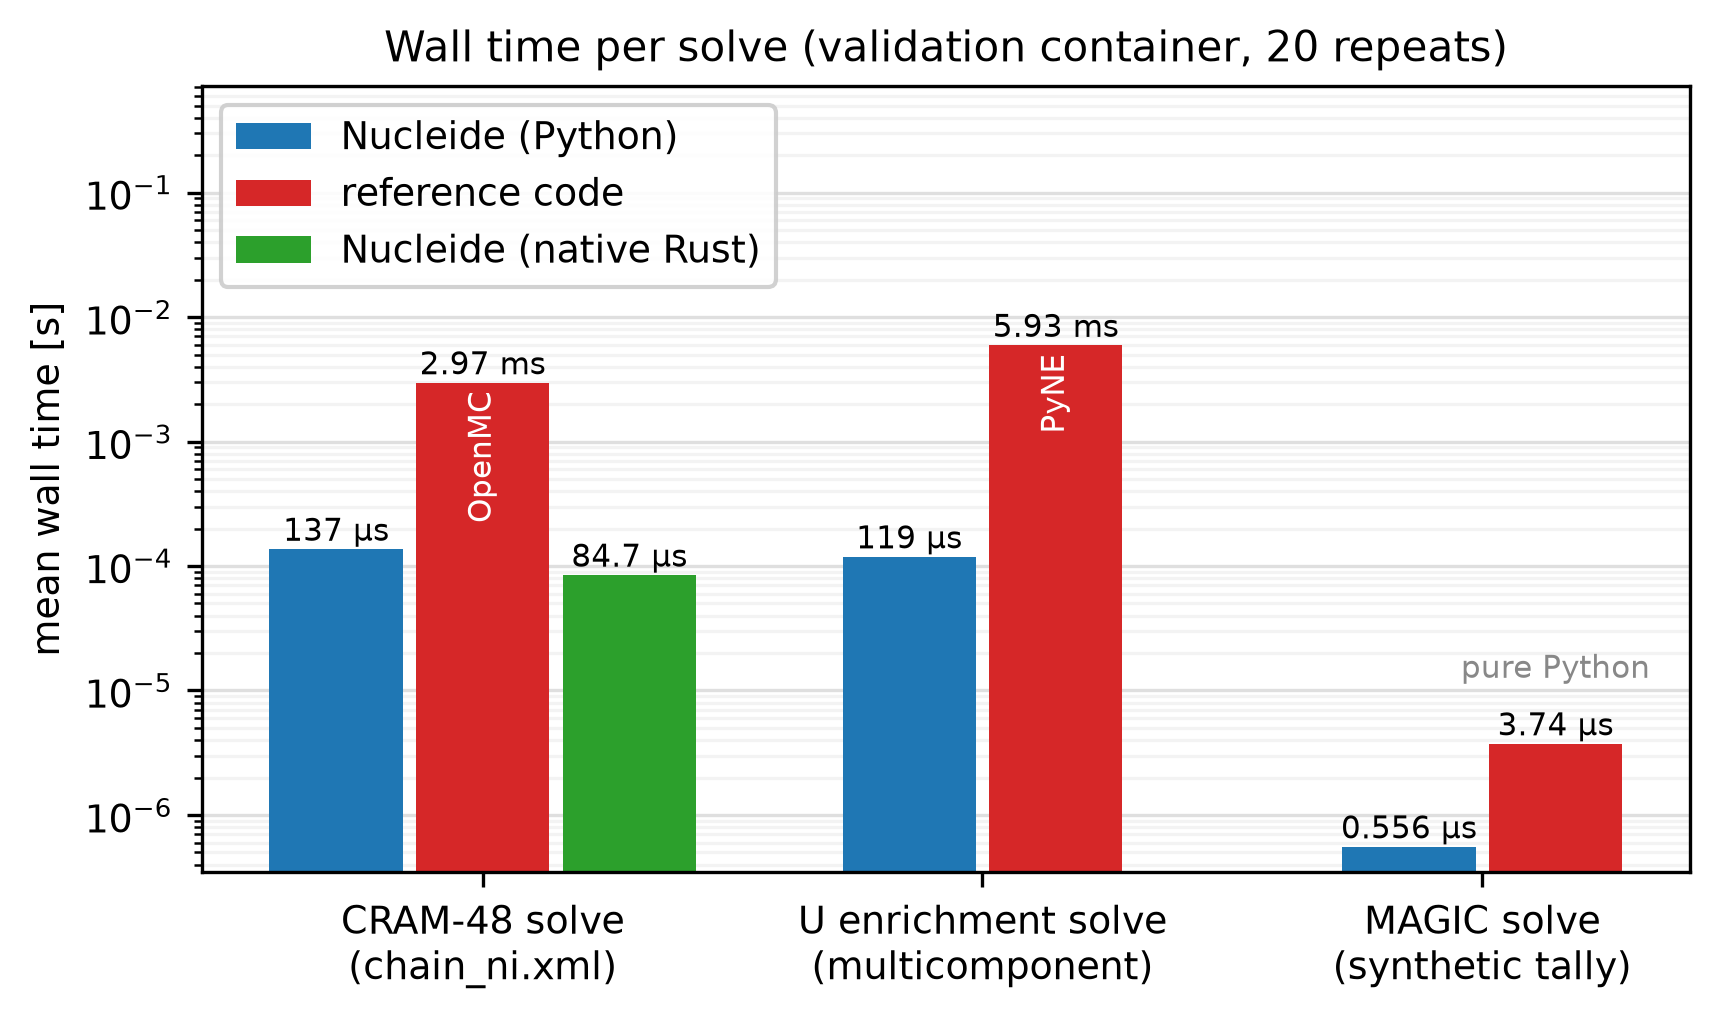
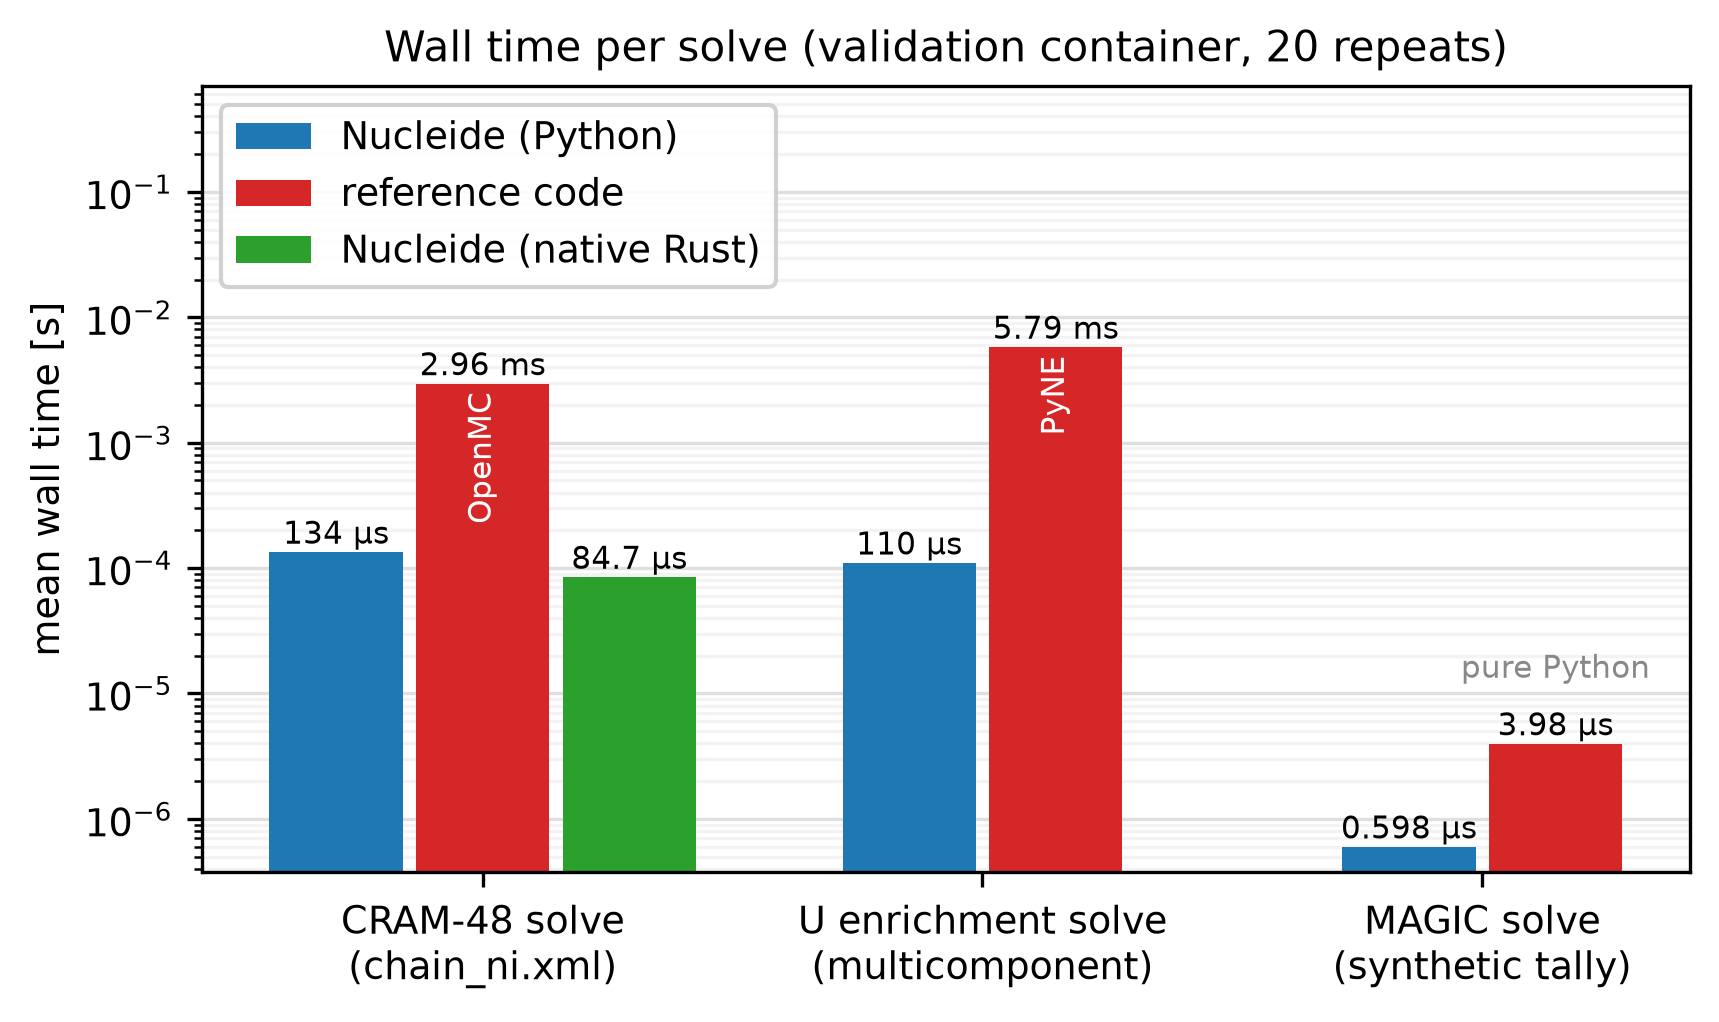
Fix Serpent matrix shape in `read_serpent`
Matrices now map directly to 2-D lists of row lists instead of being
wrapped in a spurious one-element outer list. A matrix containing
non-numeric values raises `ValueError` rather than silently reading as
an empty list.

Update the Serpent tutorial, parser tests, and cross-validation script
to
the faithful shapes, and skip xsdir comparisons cleanly when the PyNE
oracle is unavailable. Refresh timing figures and paper numbers.

diff --git a/validation/parsers_vs_refs.py b/validation/parsers_vs_refs.py
@@ -106,7 +106,7 @@ def compare_serpent_det(path: Path, st_reader) -> list[list[str]]:
         base = f"DET{det_name}"
         if base not in nuc:
             continue
-        bins = np.asarray(nuc[base], dtype=float).reshape(-1, 13)
+        bins = np.asarray(nuc[base], dtype=float)
         d, n = arr_max_rel_diff(bins[:, 11], st_det.tallies)
         rows.append([f"{base} tallies", str(n), fmt(d)])
         d, n = arr_max_rel_diff(bins[:, 12], st_det.errors)
@@ -172,9 +172,12 @@ def serpent_section(report: Report) -> None:
         report.prose(note)
 
 
-def compare_xsdir() -> list[list[str]]:
+def compare_xsdir() -> tuple[list[list[str]], list[str]]:
     """Compare xsdir table entries against pyne.mcnp.Xsdir."""
-    from pyne import mcnp
+    try:
+        from pyne import mcnp
+    except ImportError as exc:
+        return [], [_note(f"SKIPPED xsdir: PyNE oracle unavailable ({exc})")]
 
     path = MCNP_DIR / "xsdir" / "dummy_xsdir"
     nuc = nucleide.mcnp.read_xsdir(str(path))
@@ -199,12 +202,15 @@ def compare_xsdir() -> list[list[str]]:
         if not (str_ok and int_ok):
             _track(1.0)
         rows.append([f"{rt.name} (awr, temperature, name/dir/ints)", "2 + 5", status])
-    return rows
+    return rows, []
 
 
 def compare_surfsrc() -> tuple[list[list[str]], list[str]]:
     """Compare SSW surface-source files against pyne.mcnp.SurfSrc."""
-    from pyne import mcnp
+    try:
+        from pyne import mcnp
+    except ImportError as exc:
+        return [], [_note(f"SKIPPED ssw: PyNE oracle unavailable ({exc})")]
 
     rows: list[list[str]] = []
     skips: list[str] = []
@@ -251,7 +257,10 @@ def compare_ptrac() -> tuple[list[list[str]], list[str]]:
     helper, so only the header scalars it exposes (problem title, per-record
     variable counts) are compared.
     """
-    from pyne.mcnp import PtracReader
+    try:
+        from pyne.mcnp import PtracReader
+    except ImportError as exc:
+        return [], [_note(f"SKIPPED ptrac: PyNE oracle unavailable ({exc})")]
 
     rows: list[list[str]] = []
     skips: list[str] = []
@@ -342,7 +351,8 @@ def mcnp_section(report: Report) -> None:
     )
 
     rows: list[list[str]] = []
-    for name, fileds, status in compare_xsdir():
+    xsdir_rows, xsdir_skips = compare_xsdir()
+    for name, fileds, status in xsdir_rows:
         rows.append(["xsdir", name, fileds, status])
     ssw_rows, ssw_skips = compare_surfsrc()
     for name, n_vals, status in ssw_rows:
@@ -352,7 +362,7 @@ def mcnp_section(report: Report) -> None:
         rows.append(["ptrac", name, what, status])
     report.table(["Format", "Item", "Values compared", "Max rel diff / status"], rows)
 
-    skips = ssw_skips + ptrac_skips
+    skips = xsdir_skips + ssw_skips + ptrac_skips
     for what, reason in [
         ("wwinp", "`pyne.mcnp.Wwinp` requires PyMOAB to build its mesh (nomoab build)"),
         ("meshtal", "`pyne.mcnp.Meshtal` requires PyMOAB (nomoab build)"),

diff --git a/bindings/python/src/lib.rs b/bindings/python/src/lib.rs
@@ -1353,8 +1353,10 @@ fn deplete(
 // Serpent / FLUKA / variance reduction + writers
 // ---------------------------------------------------------------------------
 
-/// Parse a Serpent .m output file ("res", "dep", or "det") into a nested
-/// Python dict.
+/// Parse a Serpent .m output file ("res", "dep", or "det") into a plain
+/// Python dict keyed by variable name. Scalars become floats/strings, vectors
+/// become 1-D lists, and matrices become 2-D lists of row lists (one row per
+/// Serpent block). A matrix holding non-numeric values raises `ValueError`.
 #[pyfunction]
 fn read_serpent(path: &str, kind: &str) -> PyResult<Py<PyAny>> {
     let text = std::fs::read_to_string(path).map_err(|e| PyValueError::new_err(e.to_string()))?;
@@ -1369,9 +1371,9 @@ fn read_serpent(path: &str, kind: &str) -> PyResult<Py<PyAny>> {
         }
     }
     .map_err(|e| PyValueError::new_err(e.to_string()))?;
-    fn entry_to_py(py: Python<'_>, e: &nucleide_serpent_io::Entry) -> Py<PyAny> {
+    fn entry_to_py(py: Python<'_>, e: &nucleide_serpent_io::Entry) -> PyResult<Py<PyAny>> {
         use nucleide_serpent_io::Entry as E;
-        match e {
+        let value = match e {
             E::Scalar(nucleide_serpent_io::Value::Num(n)) => {
                 n.into_pyobject(py).unwrap().unbind().into_any()
             }
@@ -1393,23 +1395,23 @@ fn read_serpent(path: &str, kind: &str) -> PyResult<Py<PyAny>> {
                 .unwrap()
                 .unbind()
                 .into_any(),
-            E::Matrix(m) => {
-                let rows: Vec<Py<PyAny>> = m
-                    .to_rows_f64()
-                    .iter()
-                    .map(|row| row.into_pyobject(py).unwrap().unbind().into_any())
-                    .collect();
-                rows.into_pyobject(py).unwrap().unbind().into_any()
-            }
-        }
+            E::Matrix(m) => m
+                .to_rows_f64()
+                .map_err(|err| PyValueError::new_err(err.to_string()))?
+                .into_pyobject(py)
+                .unwrap()
+                .unbind()
+                .into_any(),
+        };
+        Ok(value)
     }
-    Ok(Python::attach(|py| {
+    Python::attach(|py| {
         let dict = pyo3::types::PyDict::new(py);
         for (k, e) in table.iter() {
-            dict.set_item(k, entry_to_py(py, e)).ok();
+            dict.set_item(k, entry_to_py(py, e)?)?;
         }
-        dict.into_any().unbind()
-    }))
+        Ok(dict.into_any().unbind())
+    })
 }
 
 /// One FLUKA USRBIN detector.

diff --git a/validation/common.py b/validation/common.py
@@ -14,6 +14,14 @@ REPO_ROOT = Path(__file__).resolve().parent.parent
 RESULTS_DIR = Path(__file__).resolve().parent / "results"
 
 
+def _dist_version(name: str) -> str:
+    """Installed distribution version, or "not installed"."""
+    try:
+        return importlib.metadata.version(name)
+    except importlib.metadata.PackageNotFoundError:
+        return "not installed"
+
+
 def _pyne_version() -> str:
     """Return the true PyNE package version.
 
@@ -35,7 +43,7 @@ def _pyne_version() -> str:
                 return str(version)
     except Exception:
         pass
-    return importlib.metadata.version("pyne")
+    return _dist_version("pyne")
 
 
 def environment() -> dict[str, str]:
@@ -46,7 +54,7 @@ def environment() -> dict[str, str]:
         "platform": platform.platform(),
         "nucleide": importlib.metadata.version("nucleide"),
         "pyne": _pyne_version(),
-        "openmc": importlib.metadata.version("openmc"),
+        "openmc": _dist_version("openmc"),
     }
 
 

diff --git a/tests/test_serpent_fluka_vr.py b/tests/test_serpent_fluka_vr.py
@@ -15,8 +15,8 @@ class TestSerpent:
         assert "ABS_KEFF" in r and "CONVERSION_RATIO" in r
         # Matrix entry [cycle][mean, stdev]
         keff = r["ABS_KEFF"]
-        assert keff[0][0][0] == pytest.approx(1.01503, abs=1e-4)
-        assert keff[0][0][1] == pytest.approx(0.00324, abs=1e-5)
+        assert keff[0][0] == pytest.approx(1.01503, abs=1e-4)
+        assert keff[0][1] == pytest.approx(0.00324, abs=1e-5)
 
     def test_dep(self) -> None:
         d = nucleide.serpent.read_serpent(str(FIX / "serpent" / "sample1_dep.m"), "dep")

diff --git a/docs/tutorials/python/parse-serpent-output.md b/docs/tutorials/python/parse-serpent-output.md
@@ -19,14 +19,14 @@ from nucleide.serpent import read_serpent
 r = read_serpent("fixtures/serpent/serp2_res.m", "res")
 print(r["VERSION"][0], r["POP"][0])
 
-keff = r["ABS_KEFF"][0]  # one [mean, stdev] row per cycle block
+keff = r["ABS_KEFF"]  # one [mean, stdev] row per cycle block
 print(keff[0])
 ```
 
 `read_serpent(path, kind)` returns a plain dict keyed by variable name.
 Vectors (`VERSION`, `POP`, ...) are flat lists. Matrix-valued variables
-come back as a one-element list of row lists, so index `[0]` first to reach
-the rows — the same indexing the tests use.
+come back as 2-D lists of row lists (one row per Serpent block), so index
+`keff[cycle]` directly to reach a row.
 
 ## `_dep.m`: depletion inventories
 
@@ -38,7 +38,7 @@ hold the large density matrices.
 d = read_serpent("fixtures/serpent/sample1_dep.m", "dep")
 print(len(d["ZAI"]), d["DAYS"], d["BU"])
 
-adens = d["TOT_ADENS"][0]  # rows align with ZAI; one column per step
+adens = d["TOT_ADENS"]  # rows align with ZAI; one column per step
 print(adens[0])
 ```
 
@@ -53,9 +53,9 @@ into rows of bin indices plus a tally value and relative error.
 
 ```python
 det = read_serpent("fixtures/serpent/serp2_det.m", "det")
-bins = det["DET1"][0]  # one 13-column row per detector bin
+bins = det["DET1"]  # one 13-column row per detector bin
 print(bins[2][11], bins[2][12])  # tally value, relative error
-print(det["DET1E"][0][0])  # energy bin: [lower, upper, midpoint]
+print(det["DET1E"][0])  # energy bin: [lower, upper, midpoint]
 ```
 
 The bin-grid arrays keep Serpent's naming: `DET1E` energies, `DET1T`

diff --git a/README.md b/README.md
@@ -41,7 +41,7 @@ rebuilds the high-value subset in memory-safe Rust with one-command
 | Depletion (`nucleide-depletion`) | CRAM (orders 16/48) matrix exponential, analytic Bateman fast path (`method=` selector with CRAM-48 fallback), depletion-chain XML parsing, Predictor/CECM/CF4 time-series integrators with activity/decay-heat observables, unit-aware decay inventories, cumulative decays and chain-lineage queries |
 | Enrichment (`nucleide-enrichment`) | Multicomponent cascade solver (numeric), SWU closed-form helpers |
 | Point kinetics (`nucleide-kinetics`) | Prescribed-reactivity PKE solver, inhour roots, prompt-jump factor |
-| Spectroscopy (`nucleide-spectroscopy`) | Spectrum smoothing, gross/net counting, energy/efficiency calibration, X-ray lines, SPE parsing |
+| Spectroscopy (`nucleide-spectroscopy`) | Spectrum smoothing, gross/net counting, energy/efficiency calibration, X-ray lines, SPE parsing, decay-line SDEF source cards (E9) |
 | Variance reduction (`nucleide-vr-tools`) | MAGIC weight-window generation, mesh source sampling with alias tables |
 | CCCC I/O (`nucleide-cccc-io`) | ISOTXS/RTFLUX text-subset parsers + PARTISN deck writer (no solver) |
 | FISPACT I/O (`nucleide-fispact-io`) | FISPACT-II inventory output parser reusing the ALARA response frame (output-only) |

diff --git a/validation/results.md b/validation/results.md
@@ -854,9 +854,9 @@ step** on pre-built systems/matrices.
 
 | Operation                                             | Nucleide       | Reference code                              |
 |-------------------------------------------------------|----------------|---------------------------------------------|
-| CRAM-48 solve (`chain_ni.xml`)                        | 1.366275e-04 s | OpenMC CRAM48: 2.971514e-03 s               |
-| Default uranium enrichment solve                      | 1.187259e-04 s | PyNE multicomponent: 5.934543e-03 s         |
-| MAGIC total-mode solve (synthetic tally)              | 5.559512e-07 s | PyNE-equivalent pure Python: 3.739800e-06 s |
+| CRAM-48 solve (`chain_ni.xml`)                        | 1.342104e-04 s | OpenMC CRAM48: 2.964352e-03 s               |
+| Default uranium enrichment solve                      | 1.100468e-04 s | PyNE multicomponent: 5.790494e-03 s         |
+| MAGIC total-mode solve (synthetic tally)              | 5.981005e-07 s | PyNE-equivalent pure Python: 3.977799e-06 s |
 | Native Rust CRAM-48 solve (Criterion, no Python)      | 8.465243e-05 s | —                                           |
 | Native Rust deplete end-to-end (Criterion, no Python) | 8.640163e-05 s | —                                           |
 

diff --git a/paper.md b/paper.md
@@ -157,11 +157,11 @@ The repository contains a runnable cross-code validation harness
   carries per-isomer excitation masses alongside the AME2020 grounds); all name-dialect conversions match `pyne.nucname`
   exactly. Screening scattering lengths follow Sears [@sears1992], and prompt
   decay energies plus 14-MeV totals follow ENDF/B-VII.1 [@chadwick2011endf71].
-- **Performance**: single-step CRAM-48 solves run in $\sim$133 µs from Python
+- **Performance**: single-step CRAM-48 solves run in $\sim$134 µs from Python
   ($\sim$85 µs native) versus $\sim$3.0 ms for OpenMC's Python path; the
-  default uranium enrichment solve runs in $\sim$110 µs versus $\sim$5.5 ms
+  default uranium enrichment solve runs in $\sim$110 µs versus $\sim$5.8 ms
   for PyNE; MAGIC weight-window generation runs in $\sim$0.6 µs versus
-  $\sim$3.9 µs for an equivalent pure-Python implementation.
+  $\sim$4.0 µs for an equivalent pure-Python implementation.
 
 Beyond the measured comparisons above, the harness also covers activation and
 deterministic I/O through `validation/activation_vs_refs.py`, described here

diff --git a/CHANGELOG.md b/CHANGELOG.md
@@ -61,6 +61,13 @@ workspace crates from tags.
 
 ### Fixed
 
+- `nucleide.serpent.read_serpent` no longer wraps matrix variables in a
+  spurious one-element outer list: matrices now map directly to 2-D lists of
+  row lists (`r["ABS_KEFF"][cycle]` instead of `r["ABS_KEFF"][0][cycle]`,
+  same for `_dep.m`/`_det.m` matrices), matching the scalar/vector mapping.
+  A matrix holding non-numeric values now raises `ValueError` instead of
+  silently reading as an empty list. The Serpent tutorial and the parser
+  cross-validation script were updated to the faithful shapes.
 - Interactive demos: the Serpent parser demo no longer crashes on a
   one-column `IMP_KEFF` row, and the FLUKA/MCNP mesh views no longer
   overflow the browser argument limit on meshes above ~65k bins (min/max now
